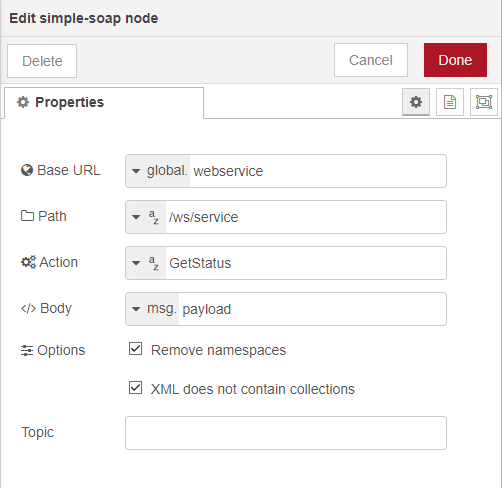
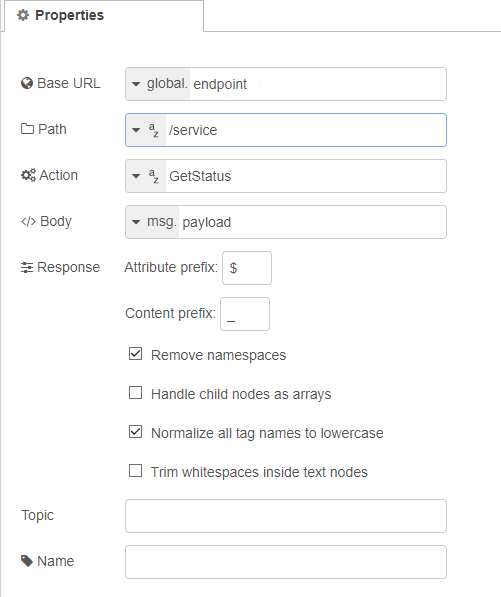
further xml2js options

diff --git a/simple-soap.html b/simple-soap.html
@@ -25,16 +25,40 @@
     </div>
 
     <div class="form-row">
-        <label><i class="fa fa-sliders"></i> Options</label>        
+        <label><i class="fa fa-sliders"></i> Response</label>
+        Attribute prefix: <input type="text" id="node-input-attrkey" style="width:50px;" />
+    </div>
+
+    <div class="form-row">
+        <label></label>
+        Content prefix: <input type="text" id="node-input-charkey" style="width:50px;" />
+    </div>
+
+    <div class="form-row">
+        <label></label>        
         <label for="node-input-stripPrefix" style="width:70%">
-            <input type="checkbox" id="node-input-stripPrefix" style="display:inline-block; width:22px; vertical-align:baseline;"> Remove namespaces from response
+            <input type="checkbox" id="node-input-stripPrefix" style="display:inline-block; width:22px; vertical-align:baseline;"> Remove namespaces
         </label>
     </div>
 
     <div class="form-row">
         <label></label>
         <label for="node-input-simplify" style="width:70%">
-            <input type="checkbox" id="node-input-simplify" style="display:inline-block; width:22px; vertical-align:baseline;"> Response does not contain collections
+            <input type="checkbox" id="node-input-simplify" style="display:inline-block; width:22px; vertical-align:baseline;"> Handle child nodes as arrays
+        </label>
+    </div>
+
+    <div class="form-row">
+        <label></label>
+        <label for="node-input-normalizeTags" style="width:70%">
+            <input type="checkbox" id="node-input-normalizeTags" style="display:inline-block; width:22px; vertical-align:baseline;"> Normalize all tag names to lowercase
+        </label>
+    </div>
+
+    <div class="form-row">
+        <label></label>
+        <label for="node-input-normalize" style="width:70%">
+            <input type="checkbox" id="node-input-normalize" style="display:inline-block; width:22px; vertical-align:baseline;"> Trim whitespaces inside text nodes
         </label>
     </div>
 
@@ -64,8 +88,12 @@
             actionType: { value: "str" },
             body: { value: "payload", required: true, validate: RED.validators.typedInput("bodyType") },
             bodyType: { value: "msg" },
+            attrkey: { value: "$" },
+            charkey: { value: "_" },
             stripPrefix: { value: false },
             simplify: { value: false },
+            normalizeTags: { value: false },
+            normalize: { value: false },
             topic: { value: "" },
             name: { value: "" }
         },

diff --git a/simple-soap.js b/simple-soap.js
@@ -74,14 +74,19 @@ module.exports = function (RED) {
                 var reqResult = body.toString('utf8');
                 var parseXml = xml2js.parseString;
 
-                var parseOpts = {};
-                parseOpts.async = true;
-                parseOpts.attrkey = '$';
-                parseOpts.charkey = '_';
+                var parseOpts = {
+                    async: true,
+                    attrkey: (config.attrkey || '$'),
+                    charkey: (config.charkey || '_'),
+                    explicitArray: config.simplify,
+                    normalizeTags: config.normalizeTags,
+                    normalize: config.normalize
+                };
 
                 if (config.stripPrefix) {
                     var stripPrefix = require('xml2js').processors.stripPrefix;
                     parseOpts.tagNameProcessors = [ stripPrefix ];
+                    parseOpts.attrNameProcessors = [ stripPrefix ];
                 }
 
                 parseXml(reqResult, parseOpts, function (parseErr, parseResult) {
@@ -91,7 +96,7 @@ module.exports = function (RED) {
                         nodeDone();
                     }
                     else {
-                        msg.payload = config.simplify ? simplify(parseResult) : parseResult;
+                        msg.payload = parseResult;
                         node.status({});
                         nodeSend(msg);
                         nodeDone();   
@@ -107,28 +112,6 @@ module.exports = function (RED) {
     node.on("close",function() {
         node.status({});
     });
-
-    function simplify(message) {
-    
-        if (typeof message !== 'object') 
-            return message;
-        
-        var keys = Object.keys(message);
-        var result = message;
-        
-        if (keys.length === 1 && keys[0] === '0') { // instanceOf Array
-            result = result['0'];     
-        }
-
-        if (typeof result === 'object')  {
-            for (var prop in result) {
-                result[prop] = simplify(result[prop]);
-            }
-        }
-      
-        return result;
-          
-    }
 
   };
 

diff --git a/README.md b/README.md
@@ -1,11 +1,8 @@
 # node-red-contrib-simple-soap
 
-[![NPM version][npm-image]][npm-url]
-[![Downloads][downloads-image]][npm-url]
-
-[npm-url]: https://npmjs.org/package/node-red-contrib-simple-soap
-[downloads-image]: https://img.shields.io/npm/dm/node-red-contrib-simple-soap.svg
-[npm-image]: https://img.shields.io/npm/v/node-red-contrib-simple-soap.svg
+![GitHub package.json version](https://img.shields.io/github/package-json/v/tiagordc/node-red-contrib-simple-soap?label=package)
+![npm](https://img.shields.io/npm/v/node-red-contrib-simple-soap)
+![npm](https://img.shields.io/npm/dm/node-red-contrib-simple-soap)
 
 The purpose of this project is to perform simple SOAP requests and parse the XML result in a single step.
 
